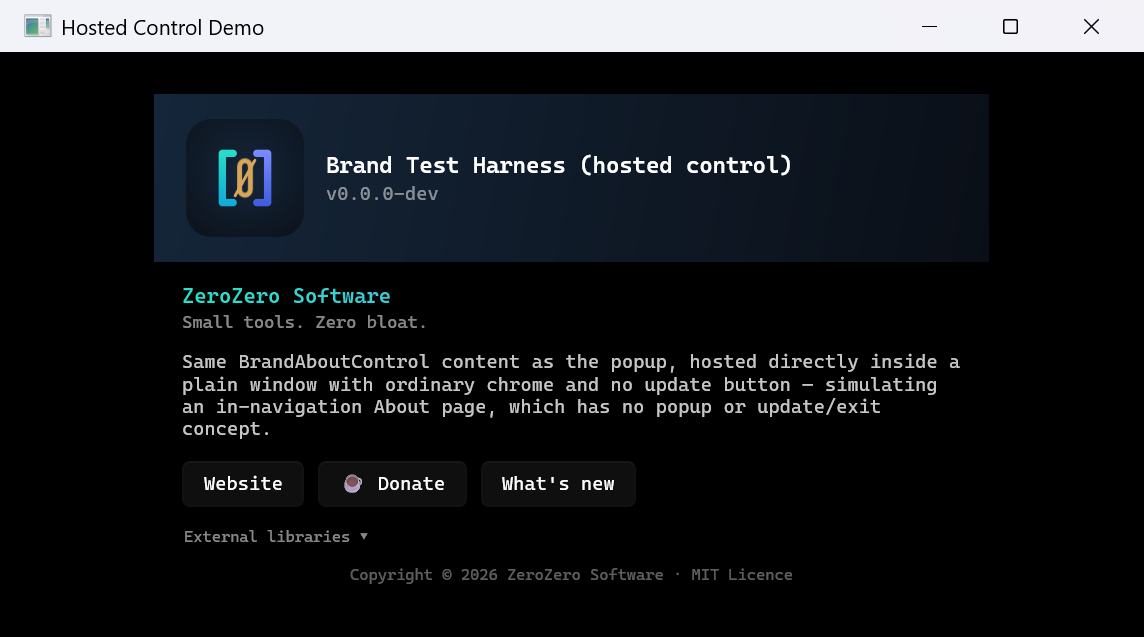
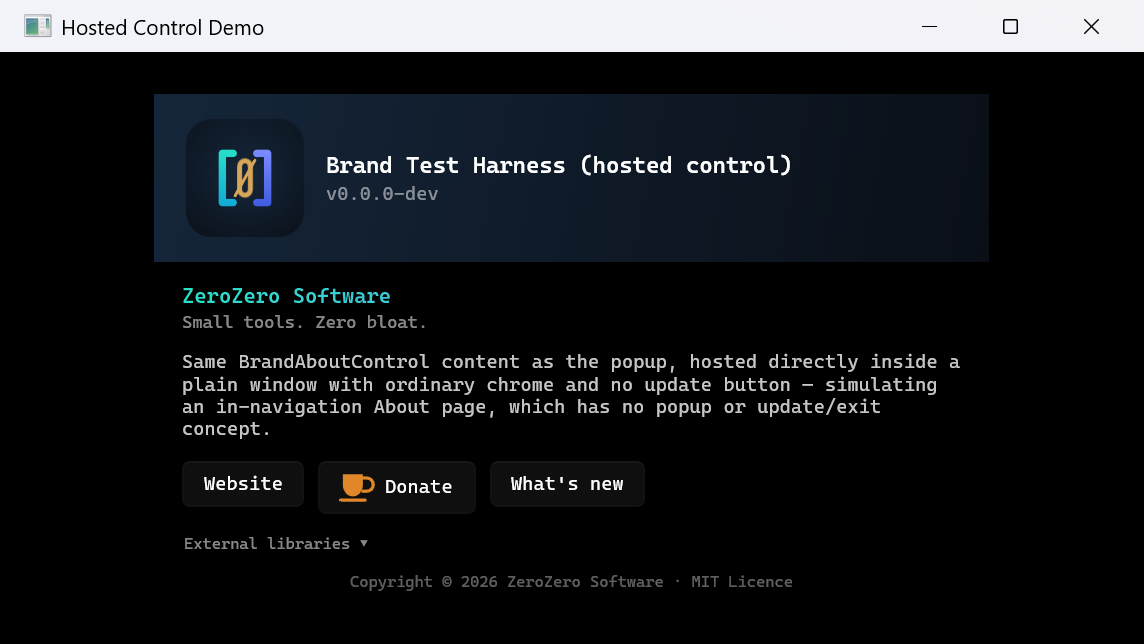
feat(brand,update): a drawn coffee mark, a shorter release-page label, one cross
The Donate button's mark is drawn rather than typed. The hot-beverage character
it replaces is not in the brand face, so Windows drew it from a fallback font as
a colour emoji of a fixed design. It is now a path — a tapered cup, a handle open
to the right, a saucer close under it — which scales with the display, takes the
theme and is the studio's own to change. Seventeen effective pixels, twice the
cap height of the label beside it, and still inside the button's own minimum
height so the row does not grow. The label is unchanged.

The colour is the palette's orange on a dark ground and, because that orange is
too pale on a light one, the darker shade of the same hue BrandBracketButton
already uses on light. Measured off the captured pictures, mark against the
button's own fill: 6.14:1 on light and 5.03:1 on dark.

The update window's Close button takes the same multiplication cross as the
corner cross and the stop button. The tick read as "done" rather than "close",
and this face draws it close to a square-root sign.

"Open the release page" becomes "Release page", which narrows the button column
and brings the three symbols close to level without moving the centring.

All eighteen pictures retaken, light and dark.

diff --git a/src/ZeroZero.Brand.WinUI/BrandAboutControl.xaml b/src/ZeroZero.Brand.WinUI/BrandAboutControl.xaml
@@ -12,10 +12,72 @@
          The URI is scoped to this assembly's folder, the one place the font exists on both
          reference routes; the output root holds it only under a project reference. -->
     <UserControl.Resources>
-        <FontFamily x:Key="BrandFont">ms-appx:///ZeroZero.Brand.WinUI/Assets/Fonts/CascadiaMono.ttf#Cascadia Mono</FontFamily>
-        <Style TargetType="TextBlock">
-            <Setter Property="FontFamily" Value="{StaticResource BrandFont}"/>
-        </Style>
+        <ResourceDictionary>
+            <FontFamily x:Key="BrandFont">ms-appx:///ZeroZero.Brand.WinUI/Assets/Fonts/CascadiaMono.ttf#Cascadia Mono</FontFamily>
+            <Style TargetType="TextBlock">
+                <Setter Property="FontFamily" Value="{StaticResource BrandFont}"/>
+            </Style>
+
+            <!--
+                The Donate button's mark, drawn rather than typed. The hot-beverage character it
+                replaced is not in the brand face, so Windows drew it from whatever face it fell
+                back to: a colour emoji of a fixed design beside labels in the studio's own face.
+                A path scales with the display, takes the theme, and stays the studio's to change.
+
+                Read as a cup at a glance: a tapered body, a handle on the right, a saucer under
+                it. Sized in the template at 17 effective pixels, twice the label's cap height
+                beside it, and still inside the button's own minimum height so the row it sits in
+                does not grow.
+            -->
+
+            <!-- A template rather than markup in place: the button is built in code-behind, and
+                 LoadContent gives it this tree with its ThemeResource brushes intact, which a
+                 shape built in code could not have. -->
+            <DataTemplate x:Key="DonateMark">
+                <Viewbox Height="17" VerticalAlignment="Center"
+                         AutomationProperties.AccessibilityView="Raw">
+                    <!-- The canvas is the drawing's own extent, with no margin around it: a
+                         viewbox scales what it is given, so empty canvas would come straight off
+                         the mark's rendered size. -->
+                    <Canvas Width="23.4" Height="19.4">
+                        <!-- The cup: a straight rim, a body a little taller than it is wide, and a
+                             rounded base. -->
+                        <Path Data="M2.5,1.5 H15.5 V8.5 C15.5,12.6 12.6,15.9 9,15.9 C5.4,15.9 2.5,12.6 2.5,8.5 Z"
+                              Fill="{ThemeResource DonateMarkBrush}"/>
+                        <!-- The handle, open to the right and clear of the body, so the shape
+                             cannot read as a beaker. -->
+                        <Path Data="M15.5,3.9 H18 C20.4,3.9 22.3,5.8 22.3,8.2 C22.3,10.6 20.4,12.5 18,12.5 H15.5"
+                              Stroke="{ThemeResource DonateMarkBrush}" StrokeThickness="2.1"
+                              StrokeStartLineCap="Round" StrokeEndLineCap="Round"/>
+                        <!-- The saucer, under the body only and close under it: carried past the
+                             handle it reads as a line through the mark rather than a thing the cup
+                             stands on. -->
+                        <Path Data="M1,18.3 H17"
+                              Stroke="{ThemeResource DonateMarkBrush}" StrokeThickness="2.1"
+                              StrokeStartLineCap="Round" StrokeEndLineCap="Round"/>
+                    </Canvas>
+                </Viewbox>
+            </DataTemplate>
+
+            <ResourceDictionary.ThemeDictionaries>
+
+                <!-- "Default" is the dark theme's dictionary, which is WinUI's own naming. The
+                     palette's orange as it is; on a light ground it measures too pale to read, so
+                     light takes the darker shade of the same hue that BrandBracketButton already
+                     uses for its own orange. One light orange in the component, not two. -->
+                <ResourceDictionary x:Key="Default">
+                    <SolidColorBrush x:Key="DonateMarkBrush" Color="#E0872A"/>
+                </ResourceDictionary>
+                <ResourceDictionary x:Key="Light">
+                    <SolidColorBrush x:Key="DonateMarkBrush" Color="#895014"/>
+                </ResourceDictionary>
+                <ResourceDictionary x:Key="HighContrast">
+                    <SolidColorBrush x:Key="DonateMarkBrush" Color="{ThemeResource SystemColorHighlightColor}"/>
+                </ResourceDictionary>
+
+            </ResourceDictionary.ThemeDictionaries>
+
+        </ResourceDictionary>
     </UserControl.Resources>
 
     <StackPanel x:Name="Root">

diff --git a/src/ZeroZero.Update.WinUI/UpdateWindow.xaml b/src/ZeroZero.Update.WinUI/UpdateWindow.xaml
@@ -95,7 +95,7 @@
             <!-- One action per line, every button the width of the widest, so their brackets line
                  up into a column. A row would not fit three choices at this width at any scaling.
                  Each symbol is the act: down for a download, forward for later, away for the
-                 browser, a tick for read-and-done, a cross for a stop. Every one is a character
+                 browser, a cross to close and a cross to stop. Every one is a character
                  the brand face actually carries, checked against its character map rather than
                  assumed: a symbol it lacks is drawn by whatever font Windows falls back to, which
                  is a different shape and weight beside the label. -->
@@ -104,7 +104,7 @@
                 <brand:BrandBracketButton x:Name="InstallButton" Symbol="&#x2193;"/>
                 <brand:BrandBracketButton x:Name="LaterButton" Symbol="&#x00BB;"/>
                 <brand:BrandBracketButton x:Name="NotesButton" Symbol="&#x2192;"/>
-                <brand:BrandBracketButton x:Name="CloseButton" Symbol="&#x2713;" Visibility="Collapsed"/>
+                <brand:BrandBracketButton x:Name="CloseButton" Symbol="&#x00D7;" Visibility="Collapsed"/>
                 <brand:BrandBracketButton x:Name="CancelButton" Symbol="&#x00D7;" Visibility="Collapsed"/>
             </brand:BrandBracketButtonColumn>
 

diff --git a/src/ZeroZero.Brand.WinUI/BrandAboutControl.xaml.cs b/src/ZeroZero.Brand.WinUI/BrandAboutControl.xaml.cs
@@ -1,5 +1,6 @@
 using System.Diagnostics;
 using Microsoft.UI.Xaml;
+using Microsoft.UI.Xaml.Automation;
 using Microsoft.UI.Xaml.Controls;
 using Microsoft.UI.Xaml.Documents;
 using Microsoft.UI.Xaml.Media;
@@ -81,7 +82,9 @@ public sealed partial class BrandAboutControl : UserControl
 
         // Named as the markup named them, so a probe that finds a row button by name still does.
         var siteButton   = CreateRowButton("Website", "SiteBtn");
-        var donateButton = CreateRowButton("☕ Donate", "DonateBtn");
+        var donateButton = CreateRowButton(DonateContent(), "DonateBtn");
+        // The content is a panel now, not a string, so the name is stated rather than inferred.
+        AutomationProperties.SetName(donateButton, "Donate");
         _newsButton      = CreateRowButton("What's new", "NewsBtn");
         _buttonRow.Children.Add(siteButton);
         _buttonRow.Children.Add(donateButton);
@@ -173,17 +176,42 @@ public sealed partial class BrandAboutControl : UserControl
         }
     }
 
-    /// <summary>A button in the row's own style: the brand face at the row's size, natural width.</summary>
-    private Button CreateRowButton(string label, string? name)
+    /// <summary>A button in the row's own style: the brand face at the row's size, natural width.
+    /// The content is a label for every button but Donate, which carries a drawn mark beside
+    /// its own.</summary>
+    private Button CreateRowButton(object content, string? name)
     {
         var button = new Button
         {
-            Content    = label,
+            Content    = content,
             FontSize   = 11,
             FontFamily = (FontFamily)Resources["BrandFont"],
         };
         if (name is not null) button.Name = name;
         return button;
+    }
+
+    /// <summary>
+    /// The drawn cup and the label beside it. The mark comes out of the template in the markup, so
+    /// its colours stay <c>ThemeResource</c> lookups and follow a theme change; a shape built here
+    /// would have taken one colour and kept it.
+    /// </summary>
+    /// <remarks>
+    /// The button reads as one thing to a screen reader: the mark is out of the accessibility tree
+    /// and the button is named by the label alone, as it was when the label carried a character in
+    /// front of it.
+    /// </remarks>
+    private StackPanel DonateContent()
+    {
+        var content = new StackPanel
+        {
+            Orientation = Orientation.Horizontal,
+            Spacing = 6,
+            VerticalAlignment = VerticalAlignment.Center,
+        };
+        content.Children.Add((UIElement)((DataTemplate)Resources["DonateMark"]).LoadContent());
+        content.Children.Add(new TextBlock { Text = "Donate", VerticalAlignment = VerticalAlignment.Center });
+        return content;
     }
 
     /// <summary>

diff --git a/src/ZeroZero.Update.Win32/UpdateMessages.cs b/src/ZeroZero.Update.Win32/UpdateMessages.cs
@@ -27,7 +27,7 @@ public static class UpdateMessages
     public const string LaterLabel = "Not now";
 
     /// <inheritdoc cref="InstallLabel"/>
-    public const string ReleasePageLabel = "Open the release page";
+    public const string ReleasePageLabel = "Release page";
 
     /// <inheritdoc cref="InstallLabel"/>
     public const string CloseLabel = "Close";

diff --git a/docs/zerozero-brand.md b/docs/zerozero-brand.md
@@ -406,14 +406,29 @@ spinner and the slashed zero take its place while `Busy` and `Success` are showi
 **Pick a character the face carries.** Cascadia Mono covers 1483 code points and a good many
 obvious choices are not among them: `↗` and `✕` are both absent, and Windows draws an absent
 character from whatever font it falls back to — a different shape and weight sitting beside a label
-in the brand face. Measured as present and used by the update window: `↓`, `→`, `»`, `✓`, `×` and
-the default `>`.
+in the brand face. Measured as present and used by the update window: `↓`, `→`, `»`, `×` and the
+default `>`.
 
-The same reading covers every character the About surfaces draw. All of them are in the face except
-two: the close cross, now `×` (U+00D7) rather than `✕` (U+2715), and **the hot beverage on the
-Donate button (U+2615), which is not in the face and still falls back.** That one is a colour emoji
-and replacing it is an appearance decision rather than a typo, so it stands until someone decides
-otherwise.
+The same reading covers every character the About surfaces draw, and it found two the face does not
+carry. The close cross is now `×` (U+00D7) rather than `✕` (U+2715). The hot beverage on the Donate
+button is gone entirely: **that mark is drawn now**, not typed.
+
+### The Donate mark
+
+A path rather than a character, so it scales with the display, takes the theme, and stays the
+studio's own rather than a fallback font's. It reads as a cup at a glance — a tapered body, a
+handle open to the right, a saucer close under it — at 17 effective pixels, twice the cap height of
+the label beside it and still inside the button's own minimum height, so the row it sits in does
+not grow.
+
+It is the palette's orange, `#e0872a`, on a dark ground. That orange is too pale on a light one, so
+light takes `#895014`, the darker shade of the same hue `BrandBracketButton` already uses: one
+light orange in the component rather than two. Measured off the captured pictures, mark against the
+button's own fill: **6.14:1 on light** (`#895014` on `#f8f8f8`) and **5.03:1 on dark** (`#e0872a`
+on `#2d2d2d`). High contrast takes the system highlight colour, as everything else here does.
+
+The mark is out of the accessibility tree and the button is named by its label, so a screen reader
+hears what it heard when a character led the label.
 
 **One width for several buttons.** A button sizes itself to its own text and centres itself in
 whatever width it is given, which leaves a stack of them at three different lengths with their
@@ -444,9 +459,7 @@ Every image is the capture script's output, so it shows the surface as it actual
 than what the XAML claims.
 
 Status (2026-09-20): current, and the first taken in both themes. The close cross is the brand
-face's own `×`. The Donate button's hot beverage is the one character on these surfaces the face
-does not carry, and the picture shows it: a colour glyph from a fallback face beside labels in the
-brand face.
+face's own `×`, and the Donate button carries the drawn cup.
 
 ## The harness
 

diff --git a/docs/release-notes/brand/v0.10.0.md b/docs/release-notes/brand/v0.10.0.md
@@ -20,8 +20,9 @@ scaling the rest of the button takes, and it needs no asset. A chevron where the
 
 **Pick one the face carries.** Cascadia Mono covers 1483 code points, and `↗` and `✕` are not among
 them; a character it lacks is drawn by whatever font Windows falls back to, which is a different
-shape and weight beside the label. Measured as present: `↓`, `→`, `»`, `✓`, `×` and the default
-`>`.
+shape and weight beside the label. Measured as present: `↓`, `→`, `»`, `×` and the default `>`.
+`✓` is in the face too and was tried, but this face draws it close to a square-root sign and it
+reads as "done" rather than "close", so the update window uses the cross for both.
 
 Only `Rest` and `Attention` show it. The text spinner and the slashed zero take its place while
 `Busy` and `Success` are showing, exactly as they took the chevron's.
@@ -56,10 +57,21 @@ from whatever face it fell back to — a different shape and weight in a window 
 face throughout. It is now `×` (U+00D7), which the face does carry, and which is the same character
 the update window uses for its own cross and its stop button.
 
-The same reading of the font found one more: **the hot beverage on the Donate button (U+2615) is
-not in the face either** and still falls back. It is a colour emoji and swapping it is an
-appearance decision rather than a typo, so it is left as it is and named here rather than changed
-quietly.
+## The Donate button's mark is drawn
+
+The hot beverage on that button was U+2615, which the face does not carry either, so it came from a
+fallback font as a colour emoji of a fixed design. It is now a path: a tapered cup, a handle open
+to the right and a saucer close under it, which scales with the display, takes the theme and is the
+studio's own to change.
+
+It is larger than the character it replaces — 17 effective pixels, twice the cap height of the
+label beside it — and still inside the button's own minimum height, so the button row does not
+grow. The label is unchanged.
+
+The colour is the palette's orange, `#e0872a`, on a dark ground; that orange is too pale on a light
+one, so light takes `#895014`, the darker shade of the same hue `BrandBracketButton` already uses.
+Measured off the captured pictures, mark against the button's own fill: **6.14:1 on light** and
+**5.03:1 on dark**, either side of a mark that would glare or disappear.
 
 ## The About window holds its dismissal
 

diff --git a/docs/release-notes/update/v0.11.0.md b/docs/release-notes/update/v0.11.0.md
@@ -19,8 +19,8 @@ The window is frameless on a Mica backdrop, always on top, centred on the monito
 and sized to its own content at whatever scaling that monitor has. It shows one stage at a time:
 
 - **The question** — both versions, what installing costs, the release's own notes in a panel that
-  scrolls rather than growing, and three choices one per line: install now, not now, open the
-  release page.
+  scrolls rather than growing, and three choices one per line: install now, not now, release
+  page.
 - **The download** — a bar, a byte count and a button that stops it. Stopping leaves nothing
   behind and says nothing afterwards: the person who pressed it knows what happened.
 - **The check after the last byte** — verification reports nothing, so a bar sitting full with a
@@ -30,9 +30,9 @@ and sized to its own content at whatever scaling that monitor has. It shows one 
   brand's attention colours where something went wrong.
 
 Every button is the width of the widest, so they read as a column rather than three different
-lengths, and each carries its own symbol: down for a download, forward for later, out for the
-browser, a tick for read-and-done, a cross for a stop. Both come from the brand component at
-0.10.0.
+lengths, and each carries its own symbol: down for a download, forward for later, away for the
+browser, and the same cross to close a message as to stop a download. Both come from the brand
+component at 0.10.0.
 
 Fourteen pictures, light and dark, are in [`zerozero-update.md`](../../zerozero-update.md).
 
